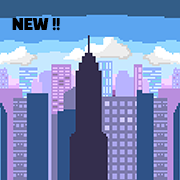
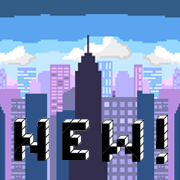
add background change function

diff --git a/shama-project/src/components/Main.js b/shama-project/src/components/Main.js
@@ -14,6 +14,7 @@ const Main = () => {
     const [isLeft, setIsLeft] = useState(false)
     const [isRight, setIsRight] = useState(false)
     const [isNy, setNy] = useState(false)
+    const [isPark, setIsPark] = useState(false)
     // 저장된 상태값 불러오기 
     useEffect(() => {
         const active = JSON.parse(localStorage.getItem('isActive') === "false")
@@ -81,11 +82,15 @@ const Main = () => {
     },[action])
 
     // 핀 삭제 
-    if(isStart){
-        setTimeout(() => {
-            setIsRemove(true)
-        },5000)
-    }
+    useEffect(() => {
+        setIsPark(true)
+        if(isStart){
+            setTimeout(() => {
+                setIsRemove(true)
+            },5000)
+        }
+    })
+
     // 키보드 동작 
     document.onkeydown = checkKey;
     function checkKey(e) {
@@ -121,6 +126,11 @@ const Main = () => {
     function changeBG(e){
         if(e.className = "btnNY"){
             setNy(true)
+            setIsPark(false)
+        }
+        else if(e.className = "btnPark"){
+            setIsPark(true)
+            setNy(false)
         }
     }
     return (
@@ -128,7 +138,7 @@ const Main = () => {
             <div className="device">
                 <div className="imgWrap">
                     <img src={FrontImage} width="800" height="auto" className="deviceImg" alt="다마고치"/>
-                    <Screen isNy={isNy} ToggleClass={ToggleClass} isLeft={isLeft} isRight={isRight} count={count} action={action} isActive={isActive} isStart={isStart}/>
+                    <Screen isPark={isPark} isNy={isNy} ToggleClass={ToggleClass} isLeft={isLeft} isRight={isRight} count={count} action={action} isActive={isActive} isStart={isStart}/>
                     {/* 버튼 */}
                     <div className="controlBtn_wrap">
                         <button type="button" className="left" onClick={(e) => trigger("left")}><span className="vh">left</span></button>
@@ -142,7 +152,10 @@ const Main = () => {
                     }
                 </div>
             </div>
-            <button type='button' className='btnNY'><span className='vh'>newyork background</span></button>
+            {
+                !isNy ? <button type='button' className='btnNY' onClick={changeBG}><span className='vh'>newyork background</span></button> : <button type='button' className='btnPark' onClick={changeBG}><span className='vh'>park background</span></button>
+            }
+            
             <p className='copyright'>&copy; 2022 SMGC</p>
         </div>
     );

diff --git a/shama-project/src/components/Screen.js b/shama-project/src/components/Screen.js
@@ -2,12 +2,17 @@ import React from 'react';
 import { Routes, Route } from 'react-router';
 import Avatar from './Avatar';
 import Park from './Theme/Park';
+import Ny from './Theme/Ny';
 
-const Screen = ({isNy, isLeft, isRight, action, count, isStart, isActive, ToggleClass}) => {
+const Screen = ({isPark, isNy, isLeft, isRight, action, count, isStart, isActive, ToggleClass}) => {
+    console.log(isPark)
     return (
         <div className="screen">
             {
-                isStart ? <Park isLeft={isLeft} isRight={isRight} count={count}/> : null
+                isPark ? <Park isLeft={isLeft} isRight={isRight} count={count}/> : null
+            }
+            {
+                isNy ? <Ny isLeft={isLeft} isRight={isRight} count={count}/> : null
             }
             {
                 isStart ? <Avatar isLeft={isLeft} isRight={isRight} action={action} isStart={isStart} count={count}/> : null

diff --git a/shama-project/src/components/style.scss b/shama-project/src/components/style.scss
@@ -337,10 +337,21 @@ body{
     position: fixed;
     right: 5%;
     bottom: 5%;
-    width: 80px;
-    height: 80px;
+    width: 8vh;
+    height: 8vh;
     border-radius: 20%;
-    background: url(../img/btn_ny_1.png)  no-repeat 0 0;
+    background: url(../img/btn_ny.png)  no-repeat 0 0;
+    background-size: 100%;
+}
+
+.btnPark{
+    position: fixed;
+    right: 5%;
+    bottom: 5%;
+    width: 8vh;
+    height: 8vh;
+    border-radius: 20%;
+    background: url(../img/btn_park.png)  no-repeat 0 0;
     background-size: 100%;
 }
 

diff --git a/shama-project/src/components/Theme/Ny.scss b/shama-project/src/components/Theme/Ny.scss
@@ -19,7 +19,7 @@
     
 }
 
-.parkTheme{
+.NyTheme{
     position: absolute;
     left: 0;
     width: 100%;
